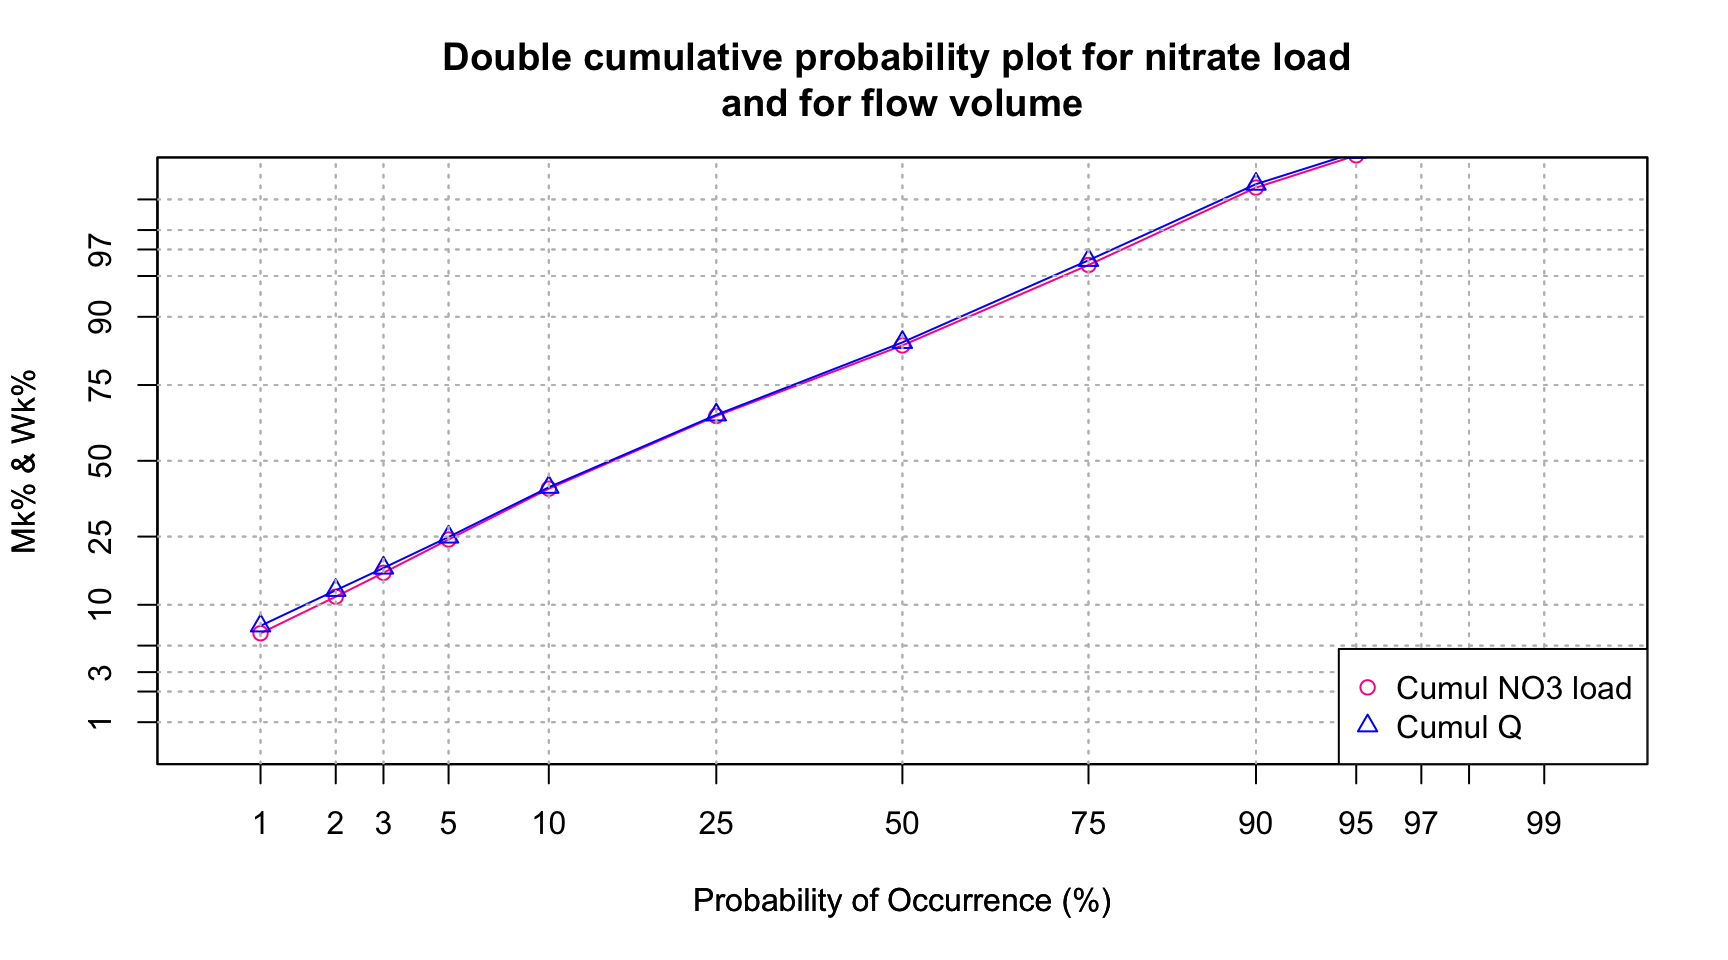
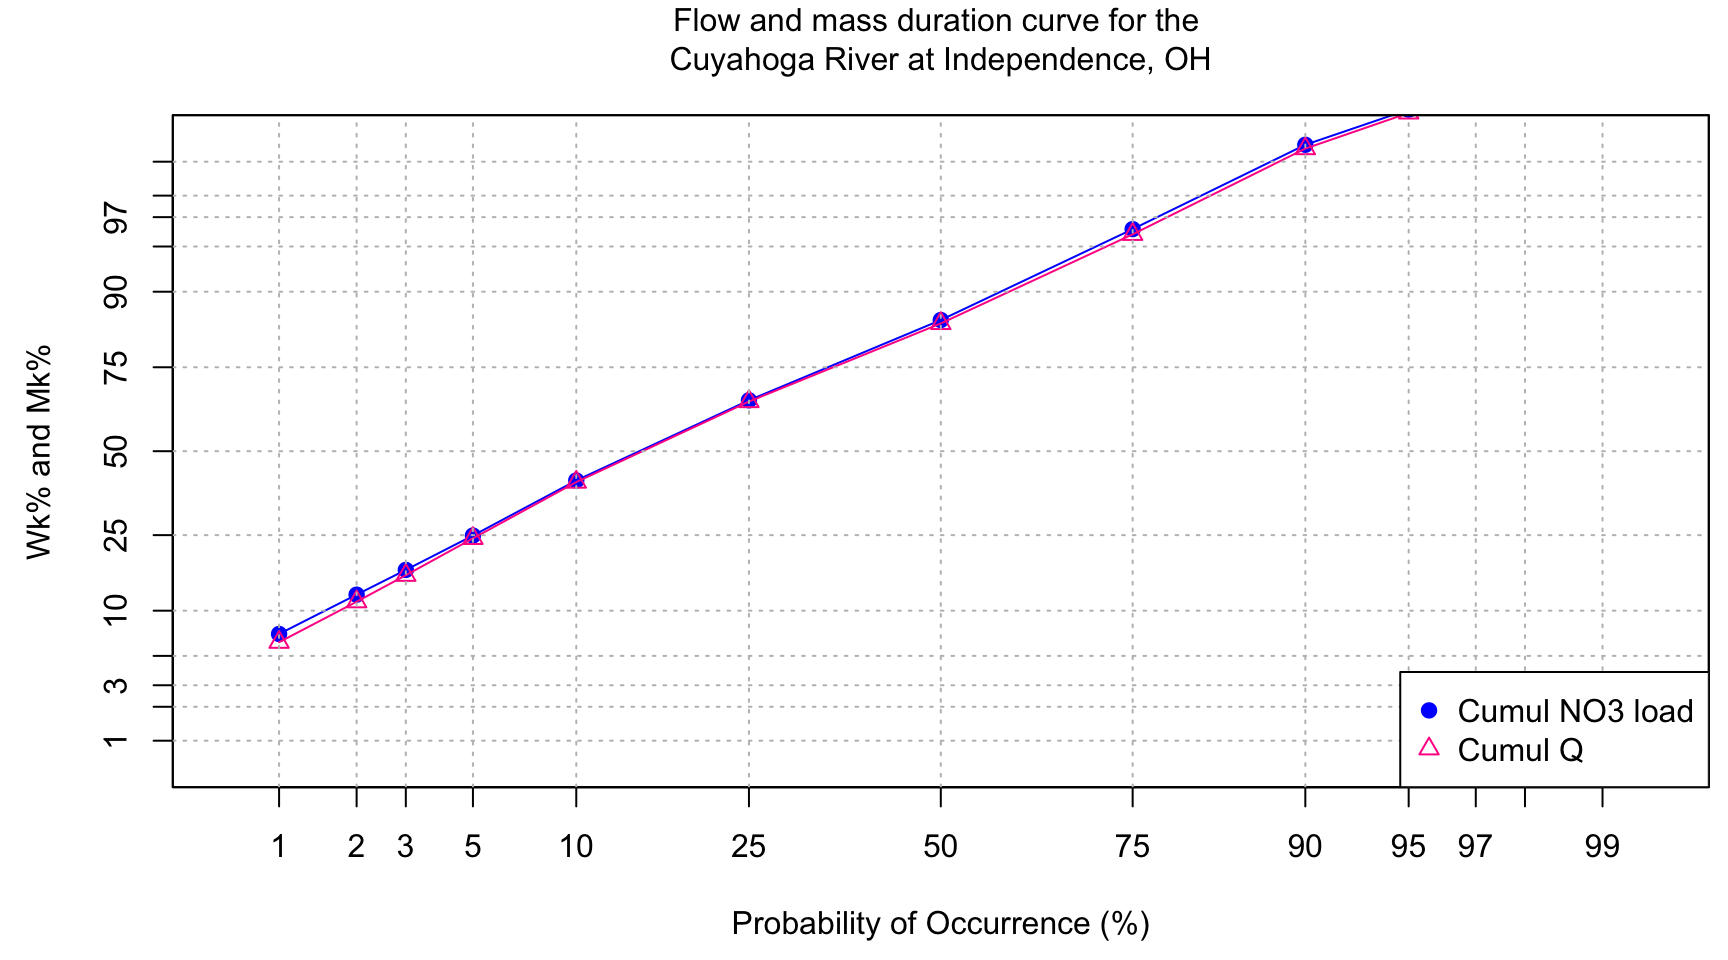
Update on the flux duration curve blog

diff --git a/blog-flow-and-load-duration-curves.html b/blog-flow-and-load-duration-curves.html
@@ -423,7 +423,7 @@ $(document).ready(function () {
 <h1>Blog: flow and load duration curves</h1>
 <div id="by-beth-allen-and-françois-birgand" class="section level3">
 <h3><em>by Beth Allen and François Birgand</em></h3>
-<p><em>started 2011-09-11 and updated 2021-02-22</em></p>
+<p><em>started 2011-09-11 and updated 2021-04-14</em></p>
 <p><br/></p>
 </div>
 <div id="keywords" class="section level3">
@@ -559,31 +559,45 @@ Mk=quantile(cumLSort,probs=seq(0.01,1,0.01))/tail(cumLSort,1)</code></pre>
           bg=&quot;white&quot;)
     title(main=&quot;Nitrate Load and flow duration curves&quot;) # the \n in the text allows for line break in the title</code></pre>
 <p><img src="blog-flow-and-load-duration-curves_files/figure-html/unnamed-chunk-7-1.png" width="864" /></p>
-<pre class="r"><code>    #Code for plotting the double cumulative plot using the normal distribution probabilities to zoom in on the lower tails
-    v&lt;-c(1,2,3,5,10,25,50,75,90,95,97,98,99,100) #v is a set of user defined values of percentages of the total time to be used for calculating and plotting specific corresponding Wk% and Mk% values
-    x&lt;-v/100  #Sets x as values of v in percentages
-        y&lt;-Mk[v]  #Sets y as the set of Mk% values corresponding with percentages of the total time defined by values in x
-    xx&lt;-qnorm(x) #qnorm takes a given probability (x values in this case) and returns the corresponding cumulative distribution value (Z-score) based on a normal distribution curve   
-    yy&lt;-qnorm(y) #Here, qnorm is taking the percentages of the load that occur associated with percentages of the total time defined by values in x and calculating associated Z-scores according to a normal distribution curve
-    yV&lt;-Wk[v] #Sets yV as the set of Wk% values corresponding with percentages of the total time defined by values in x
-    yyV&lt;-qnorm(yV) #qnorm takes percentages of the flow occurring associated with percentages of the total time defined by x values and assigns Z-score values to each probability based on the normal distribution curve 
-    yy&lt;-cbind(yy,yyV) #Binds both sets of Z-score values corresponding with Mk% (yy) and Wk% (yV)
-    xx&lt;-cbind(xx,xx) #Binds both sets of Z-scores correspdonding with defined percentages of the total time (They are the same, this is for plotting purposes)
-    color&lt;-c(ColElmt,&quot;blue&quot;) #Defines the plot colors for yy and yV
+<pre class="r"><code>#Code for plotting the double cumulative plot using the normal distribution probabilities to zoom in on the lower tails 
+# Q is understood as the entire time series of flow
+# C is understood as the enitre time series for nitrate    
+  
+  par(mar=c(4.5,4.5,3,0.5))
+  param &lt;- c(&quot;NO3&quot;,&quot;TP&quot;,&quot;SRP&quot;,&quot;SS&quot;)
+  ColElmt &lt;- c(&quot;deeppink1&quot;,&quot;brown&quot;,&quot;skyblue4&quot;,&quot;grey30&quot;)
+
+# The first thing to do is to select a few values among the 100 possible, such that the details at the tail ends are highlighted. This is what the next line does.  
+  
+  SelectPerc&lt;-c(1,2,3,5,10,25,50,75,90,95,97,98,99,100) # SelectPerc is a set of user defined values of percentages of the total time to be used for calculating and plotting specific corresponding Wk% (and Mk% values)
+ 
+  qnormSelectPerc&lt;-qnorm(SelectPerc/100) #All this does is transforming the selected values chosen in SelectPerc (divided by 100 to express them as percentage values) such that in the plotting, the tail ends of the values be highlighed. Technically, the qnorm function takes a given probability (x values in this case) and returns the corresponding cumulative distribution value (Z-score) based on a normal distribution curve   
+  
+  qnormWk&lt;-qnorm(Wk[SelectPerc]) #This does the same thing here with the Wk values corresponding with percentages of the total time defined by values in SelectPerc. Technically the qnorm function takes percentages of the flow occurring associated with percentages of the total time defined by SelectPerc values and assigns Z-score values to each probability based on the normal distribution curve 
+
+  plot(qnormSelectPerc,qnormWk,xlab=&quot;Probability of Occurrence (%)&quot;,ylab=&quot;Wk% and Mk%&quot;,
+           type=&quot;o&quot;,xaxt=&quot;n&quot;,yaxt=&quot;n&quot;,xlim=c(-2.5,2.5),ylim=c(-2.5,2.5),pch=19,col=&quot;blue&quot;) #Plots the qnorm transformed values of Wk as a function of qnorm transformed values of the selected percentage values. The option xaxt=&quot;n&quot;,yaxt=&quot;n&quot; tell R that none of the axis ticks and tick labels should be plotted at this point.
+
+  par(new=TRUE) # this tells R that we want to plot another curve on top of the existing one. 
+
+# The Mk has been defined above so there is no need to redefine it here.  Now, one needs to transform the values of Mk into this new stretched out axis at the tail ends using the qnorm function:
+  
+  qnormMk&lt;-qnorm(Mk[SelectPerc])  #Sets y as the set of Mk% values corresponding with percentages of the total time defined by values in SelectPerc
     
-    for (i in 1:2){
-    plot(xx[,i],yy[,i],xlab=&quot;Probability of Occurrence (%)&quot;,ylab=&quot;Mk% &amp; Wk%&quot;,type=&quot;o&quot;,xaxt=&quot;n&quot;,yaxt=&quot;n&quot;,xlim=c(-2.5,2.5),ylim=c(-2.5,2.5),pch=i,col=color[i])#Plots yy and yV values as a function of xx values
+  color&lt;-c(&quot;deeppink1&quot;) #Defines the plot color for the element to be plotted, here nitrate.
+
+  plot(qnormSelectPerc,qnormMk,xlab=&quot;&quot;,ylab=&quot;&quot;,
+         type=&quot;o&quot;,xaxt=&quot;n&quot;,yaxt=&quot;n&quot;,xlim=c(-2.5,2.5),ylim=c(-2.5,2.5),pch=2,col=color) #Plots yy and yV values as a function of xx values
     par(new=TRUE)
-    } 
-    
-    axis(1,at=xx[,1],labels=x*100)
-    axis(2,at=xx[,1],labels=x*100)
-    title(main=&quot;Double cumulative probability plot for nitrate load \nand for flow volume&quot;) # the \n in the text allows for line break in the title
-    abline(h=xx,lty=3,col=&quot;grey&quot;) #Plots gridlines
-    abline(v=xx,lty=3,col=&quot;grey&quot;)
+  
+    axis(1,at=qnormSelectPerc,labels=SelectPerc)
+    axis(2,at=qnormSelectPerc,labels=SelectPerc)
+    mtext(&quot;Flow and mass duration curve for the \nCuyahoga River at Independence, OH&quot;, side=3, line = 1) # the \n in the text allows for line break in the title
+    abline(h=qnormSelectPerc,lty=3,col=&quot;grey&quot;) #Plots gridlines
+    abline(v=qnormSelectPerc,lty=3,col=&quot;grey&quot;)
     legend(&quot;bottomright&quot;,c(&quot;Cumul NO3 load&quot;,&quot;Cumul Q&quot;),
-          pch=1:2,
-          col=color,
+          pch=c(19,2),
+          col=c(&quot;blue&quot;,color),
           bg=&quot;white&quot;)</code></pre>
 <p><img src="blog-flow-and-load-duration-curves_files/figure-html/unnamed-chunk-7-2.png" width="864" /> <br/><br/><br/></p>
 <p>Once again, the cumulative load calculated at each instantaneous flux value can be calculated as a percentage of the total load yielding Mk% values and the time elapsed at each point can be calculated as a percentage of the total time. Mk% and Wk% values can be plotted as functions of the probability of occurrence and multiple Mk% curves for various water quality components can be plotted simultaneously for comparison of loading as a function of probability of occurrence. For example, 50% of the nitrate load may be exported in 25% of the time whereas 50% of the ammonium load may be exported in only 5% of the time. The interaction of flow and concentrations could be examined further to explain differences among loading and flashiness of concentrations with event flow.</p>

diff --git a/cv.html b/cv.html
@@ -441,7 +441,7 @@ list-style-type: none;
 <i class="fa fa-globe" aria-hidden="true"></i> <a href="https://francoisbirgand.github.io/">https://francoisbirgand.github.io/</a>
 </li>
 <li>
-<i class="fa fa-clock-o" aria-hidden="true"></i> Last Updated: February 22, 2021
+<i class="fa fa-clock-o" aria-hidden="true"></i> Last Updated: April 14, 2021
 </li>
 <li>
 <i class='fa fa-download' aria-hidden='true'></i><a href='cv_francois_birgand.pdf'> Download CV (pdf)</a>

diff --git a/tutorial-RMarkdown_instructions.html b/tutorial-RMarkdown_instructions.html
@@ -501,7 +501,7 @@ div.tocify {
 <h3><em>by François Birgand</em></h3>
 <div class="row">
 <div class="col-md-9">
-<em>started 2017-10-17 and updated 2021-02-22</em>
+<em>started 2017-10-17 and updated 2021-04-14</em>
 </div>
 <div class="col-md-3" align="right">
 <em><a href="https://raw.githubusercontent.com/francoisbirgand/francoisbirgand.github.io/master/tutorial-RMarkdown_instructions.Rmd">code for this document</a></em>

diff --git a/blog-making-videos-in-r-the-old-fashion-way.html b/blog-making-videos-in-r-the-old-fashion-way.html
@@ -423,7 +423,7 @@ $(document).ready(function () {
 <h1>Blog: making videos in R - the old fashion way</h1>
 <div id="by-françois-birgand" class="section level3">
 <h3><em>by François Birgand</em></h3>
-<p><em>started 2015-10-15 and updated 2021-02-22</em></p>
+<p><em>started 2015-10-15 and updated 2021-04-14</em></p>
 <p><br/></p>
 </div>
 <div id="keywords" class="section level3">

diff --git a/blog-retrieving-dates-in-r-using-strsplit.html b/blog-retrieving-dates-in-r-using-strsplit.html
@@ -423,7 +423,7 @@ $(document).ready(function () {
 <h1>Blog: retrieving dates in R using strsplit</h1>
 <div id="by-françois-birgand" class="section level3">
 <h3><em>by François Birgand</em></h3>
-<p><em>started 2017-11-13 and updated 2021-02-22</em></p>
+<p><em>started 2017-11-13 and updated 2021-04-14</em></p>
 <p><br/></p>
 </div>
 <div id="keywords" class="section level3">

diff --git a/blog-indices-and-exponents-in-r-graphs.html b/blog-indices-and-exponents-in-r-graphs.html
@@ -423,7 +423,7 @@ $(document).ready(function () {
 <h1>Blog: Indices and exponents in R graphs</h1>
 <div id="by-françois-birgand" class="section level3">
 <h3><em>by François Birgand</em></h3>
-<p><em>started 2015-11-05 and updated 2021-02-22</em></p>
+<p><em>started 2015-11-05 and updated 2021-04-14</em></p>
 <p><br/></p>
 </div>
 <div id="keywords" class="section level3">

diff --git a/blog-elementary-tidyr-ggplot.html b/blog-elementary-tidyr-ggplot.html
@@ -423,7 +423,7 @@ $(document).ready(function () {
 <h1>Blog: Elementary tidyr and ggplot</h1>
 <div id="by-françois-birgand" class="section level3">
 <h3><em>by François Birgand</em></h3>
-<p><em>started 2017-11-23 and updated 2021-02-22</em></p>
+<p><em>started 2017-11-23 and updated 2021-04-14</em></p>
 <p><br/><br/></p>
 </div>
 <div id="keywords" class="section level3">

diff --git a/blog-renaming-dir-and-files.html b/blog-renaming-dir-and-files.html
@@ -423,7 +423,7 @@ $(document).ready(function () {
 <h1>Blog: renaming directories and files</h1>
 <div id="by-françois-birgand" class="section level3">
 <h3><em>by François Birgand</em></h3>
-<p><em>started 2017-11-03 and updated 2021-02-22</em></p>
+<p><em>started 2017-11-03 and updated 2021-04-14</em></p>
 <p><br/></p>
 </div>
 <div id="keywords" class="section level3">

diff --git a/blog-adding-an-image-to-an-r-graph.html b/blog-adding-an-image-to-an-r-graph.html
@@ -423,7 +423,7 @@ $(document).ready(function () {
 <h1>Blog: Adding an image in an R graph</h1>
 <div id="by-françois-birgand" class="section level3">
 <h3><em>by François Birgand</em></h3>
-<p><em>started 2015-10-18 and updated 2021-02-22</em></p>
+<p><em>started 2015-10-18 and updated 2021-04-14</em></p>
 <p><br/></p>
 </div>
 <div id="keywords" class="section level3">

diff --git a/index.html b/index.html
@@ -447,7 +447,7 @@ document.write('<img src="' + imlocation + image[imagenumber] + '">');
 
 </div>
 <div class="col-md-3" align="right">
-<em>updated 2021-02-22</em>
+<em>updated 2021-04-14</em>
 </div>
 </div>
 <p><br/><br/><br/></p>
